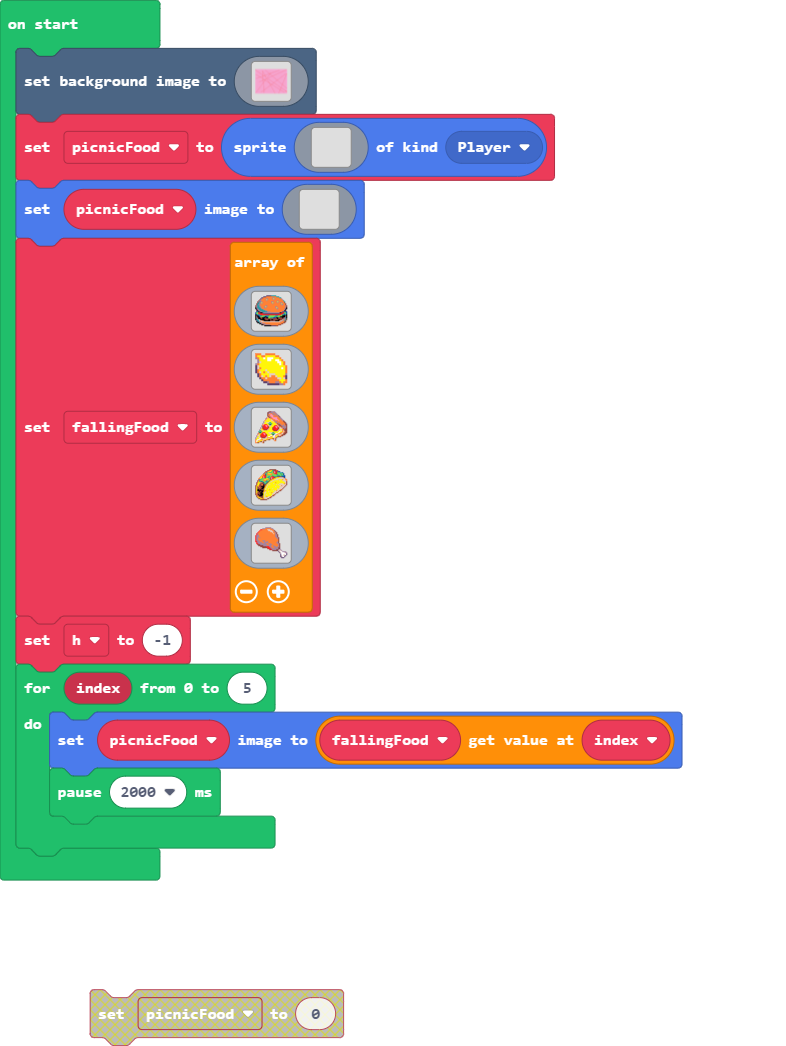
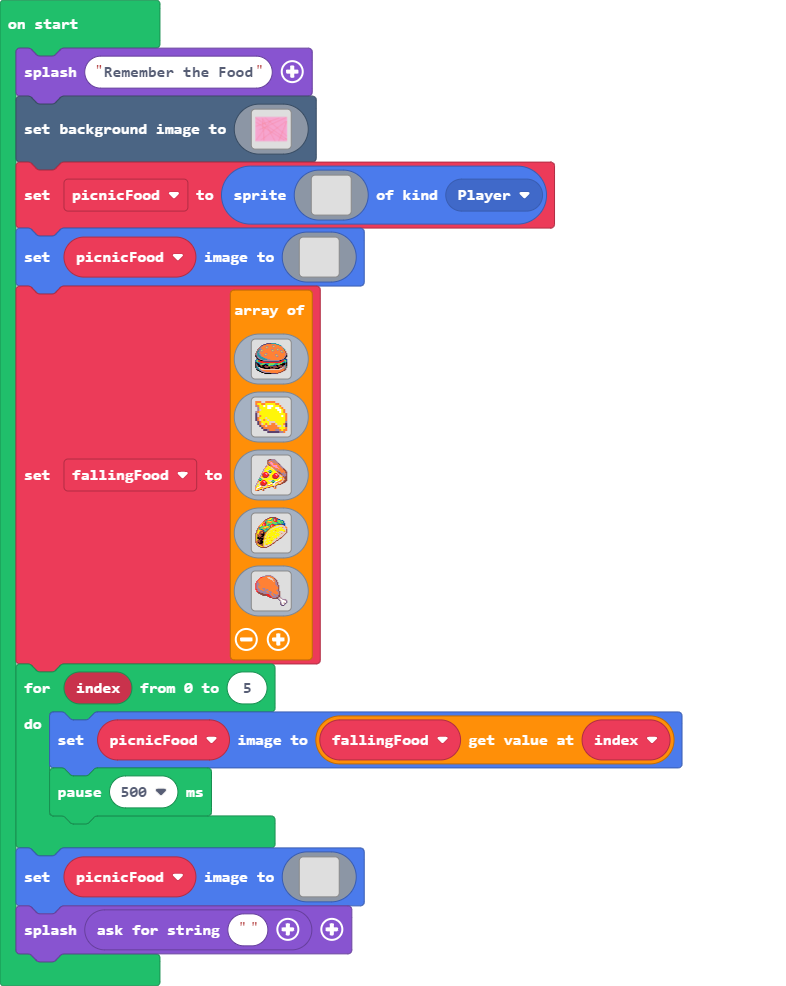
Update main.blocks, main.ts

diff --git a/main.ts b/main.ts
@@ -1,3 +1,4 @@
+game.splash("Remember the Food")
 scene.setBackgroundImage(img`
     3333333333333333333333333333333333333333333333333333333333333333333333333333333333333333333333333333333333333333333333333333333333333333333333333333333333333333
     3323333333333333333333333333333333333333333333333333333333333333333333333333333333333333333333333333333333333333333333333333333333333333333333333333333333333333
@@ -312,8 +313,26 @@ img`
     ................................
     `
 ]
-let h = -1
 for (let index = 0; index <= 5; index++) {
     picnicFood.setImage(fallingFood[index])
-    pause(2000)
+    pause(500)
 }
+picnicFood.setImage(img`
+    . . . . . . . . . . . . . . . . 
+    . . . . . . . . . . . . . . . . 
+    . . . . . . . . . . . . . . . . 
+    . . . . . . . . . . . . . . . . 
+    . . . . . . . . . . . . . . . . 
+    . . . . . . . . . . . . . . . . 
+    . . . . . . . . . . . . . . . . 
+    . . . . . . . . . . . . . . . . 
+    . . . . . . . . . . . . . . . . 
+    . . . . . . . . . . . . . . . . 
+    . . . . . . . . . . . . . . . . 
+    . . . . . . . . . . . . . . . . 
+    . . . . . . . . . . . . . . . . 
+    . . . . . . . . . . . . . . . . 
+    . . . . . . . . . . . . . . . . 
+    . . . . . . . . . . . . . . . . 
+    `)
+game.splash(game.askForString(""))
